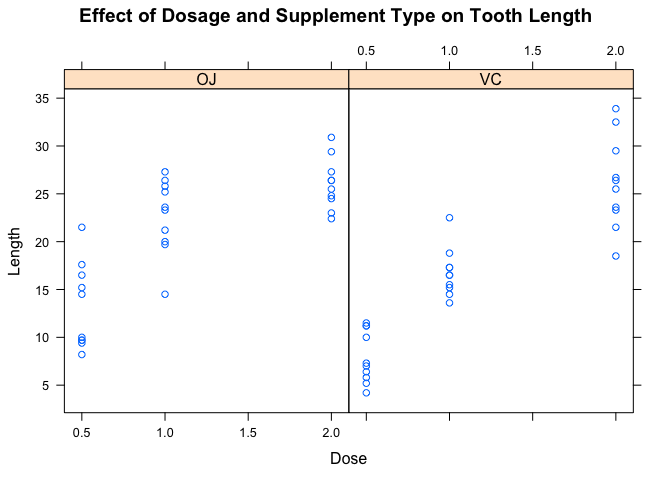
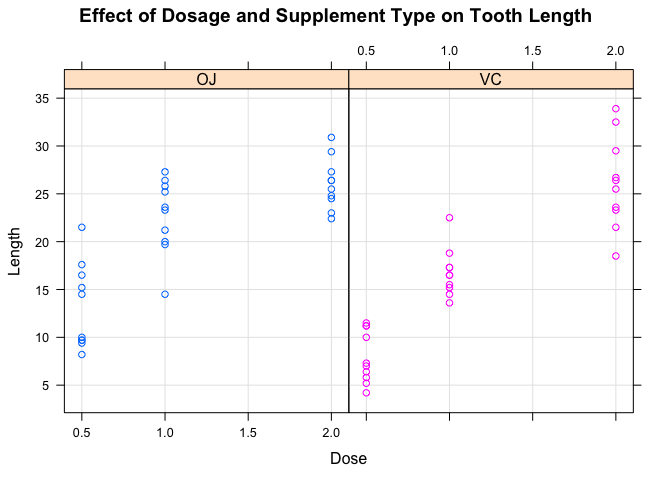
Assignment 1 preliminary final draft

diff --git a/assignments/assignment1_draft.md b/assignments/assignment1_draft.md
@@ -110,15 +110,9 @@ Data Visualization
 Tooth<-read.table("https://raw.githubusercontent.com/STAT540-UBC/STAT540-UBC.github.io/master/homework/practice_assignment/guinea_pigs_tooth_growth.txt")
 
 library(lattice)
-xyplot(len~dose|supp, ToothGrowth, main="Effect of Dosage and Supplement Type on Tooth Length", ylab="Length", xlab="Dose")
+xyplot(len~dose|supp, ToothGrowth, main="Effect of Dosage and Supplement Type on Tooth Length", group=supp, grid=TRUE,ylab="Length", xlab="Dose")
 ```
 
-![](assignment1_draft_files/figure-markdown_github/toothgrowth-1.png)
-
-``` r
-#histogram(~len|factor(supp),data=ToothGrowth,main="Variation in Length by Supplement",xlab="Length")
-```
-
-The first graph I chose to present everything in the data as it is. I believe this is the most informative way as it doesn't hide anything or make any assumptions about the data.
+![](assignment1_draft_files/figure-markdown_github/toothgrowth-1.png) The first graph I chose to present everything in the data as it is. I believe this is the most informative way as it doesn't hide anything or make any assumptions about the data.
 
 The result is suggesting that the length of tooth increases with increasing dose, for both supplement types, though there is much variability in the tooth length
